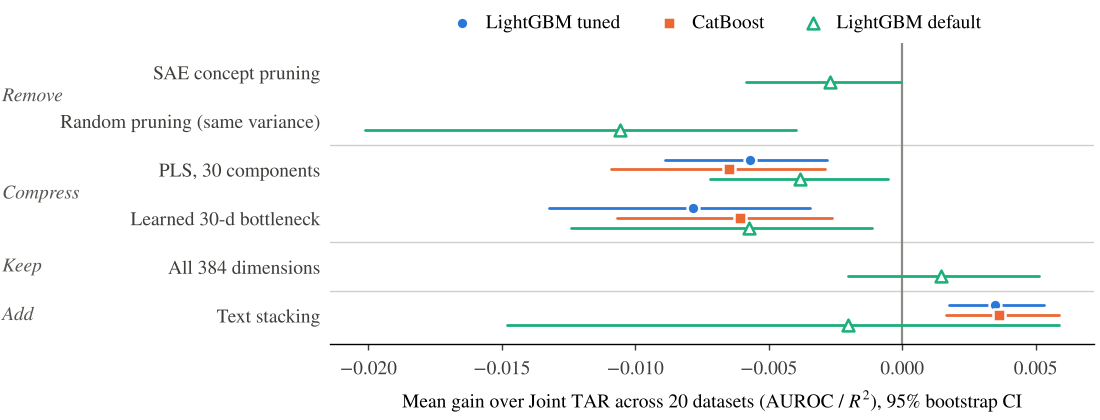
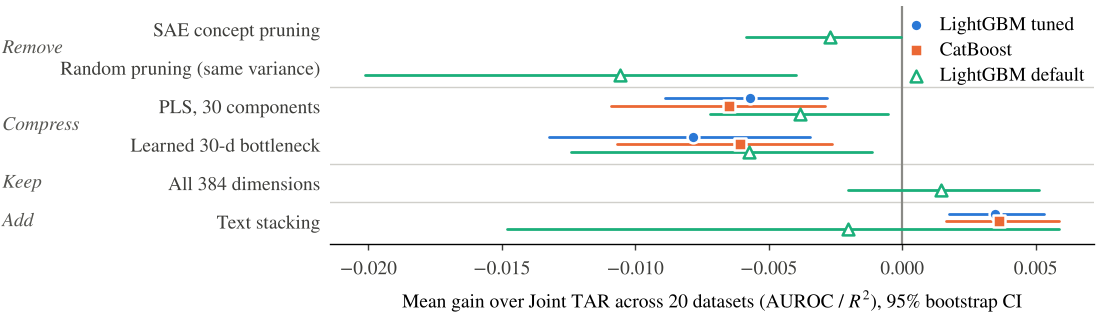
Overview figure: shorter, legend inside the empty top-right area (paper fits 4 pages)
Claude-Session: https://claude.ai/code/session_01MQrgxtS9yctSQffLof9t2a

diff --git a/paper/make_figure_overview.py b/paper/make_figure_overview.py
@@ -53,7 +53,7 @@ def main():
 
     plt.rcParams.update({"font.family": "serif", "font.serif": ["STIXGeneral", "DejaVu Serif"], "mathtext.fontset": "stix",
                          "font.size": 7, "axes.linewidth": 0.5})
-    fig, ax = plt.subplots(figsize=(5.5, 2.1))
+    fig, ax = plt.subplots(figsize=(5.5, 1.6))
     y = np.arange(len(ARMS))[::-1]
     offsets = {"lgbt": 0.2, "cat": 0.0, "light": -0.2}
     ax.axvline(0, color="#8a8a86", lw=0.8, zorder=1)
@@ -86,8 +86,7 @@ def main():
     for s in ("top", "right", "left"):
         ax.spines[s].set_visible(False)
     ax.set_ylim(-0.6, len(ARMS) - 0.4)
-    ax.legend(loc="lower center", bbox_to_anchor=(0.5, 1.0), ncol=3, frameon=False, handletextpad=0.2, columnspacing=1.5,
-              borderaxespad=0.1)
+    ax.legend(loc="upper right", frameon=False, handletextpad=0.2, borderaxespad=0.1, labelspacing=0.3)
     fig.tight_layout(pad=0.3)
     fig.subplots_adjust(left=0.30)
     os.makedirs(os.path.dirname(args.out), exist_ok=True)
